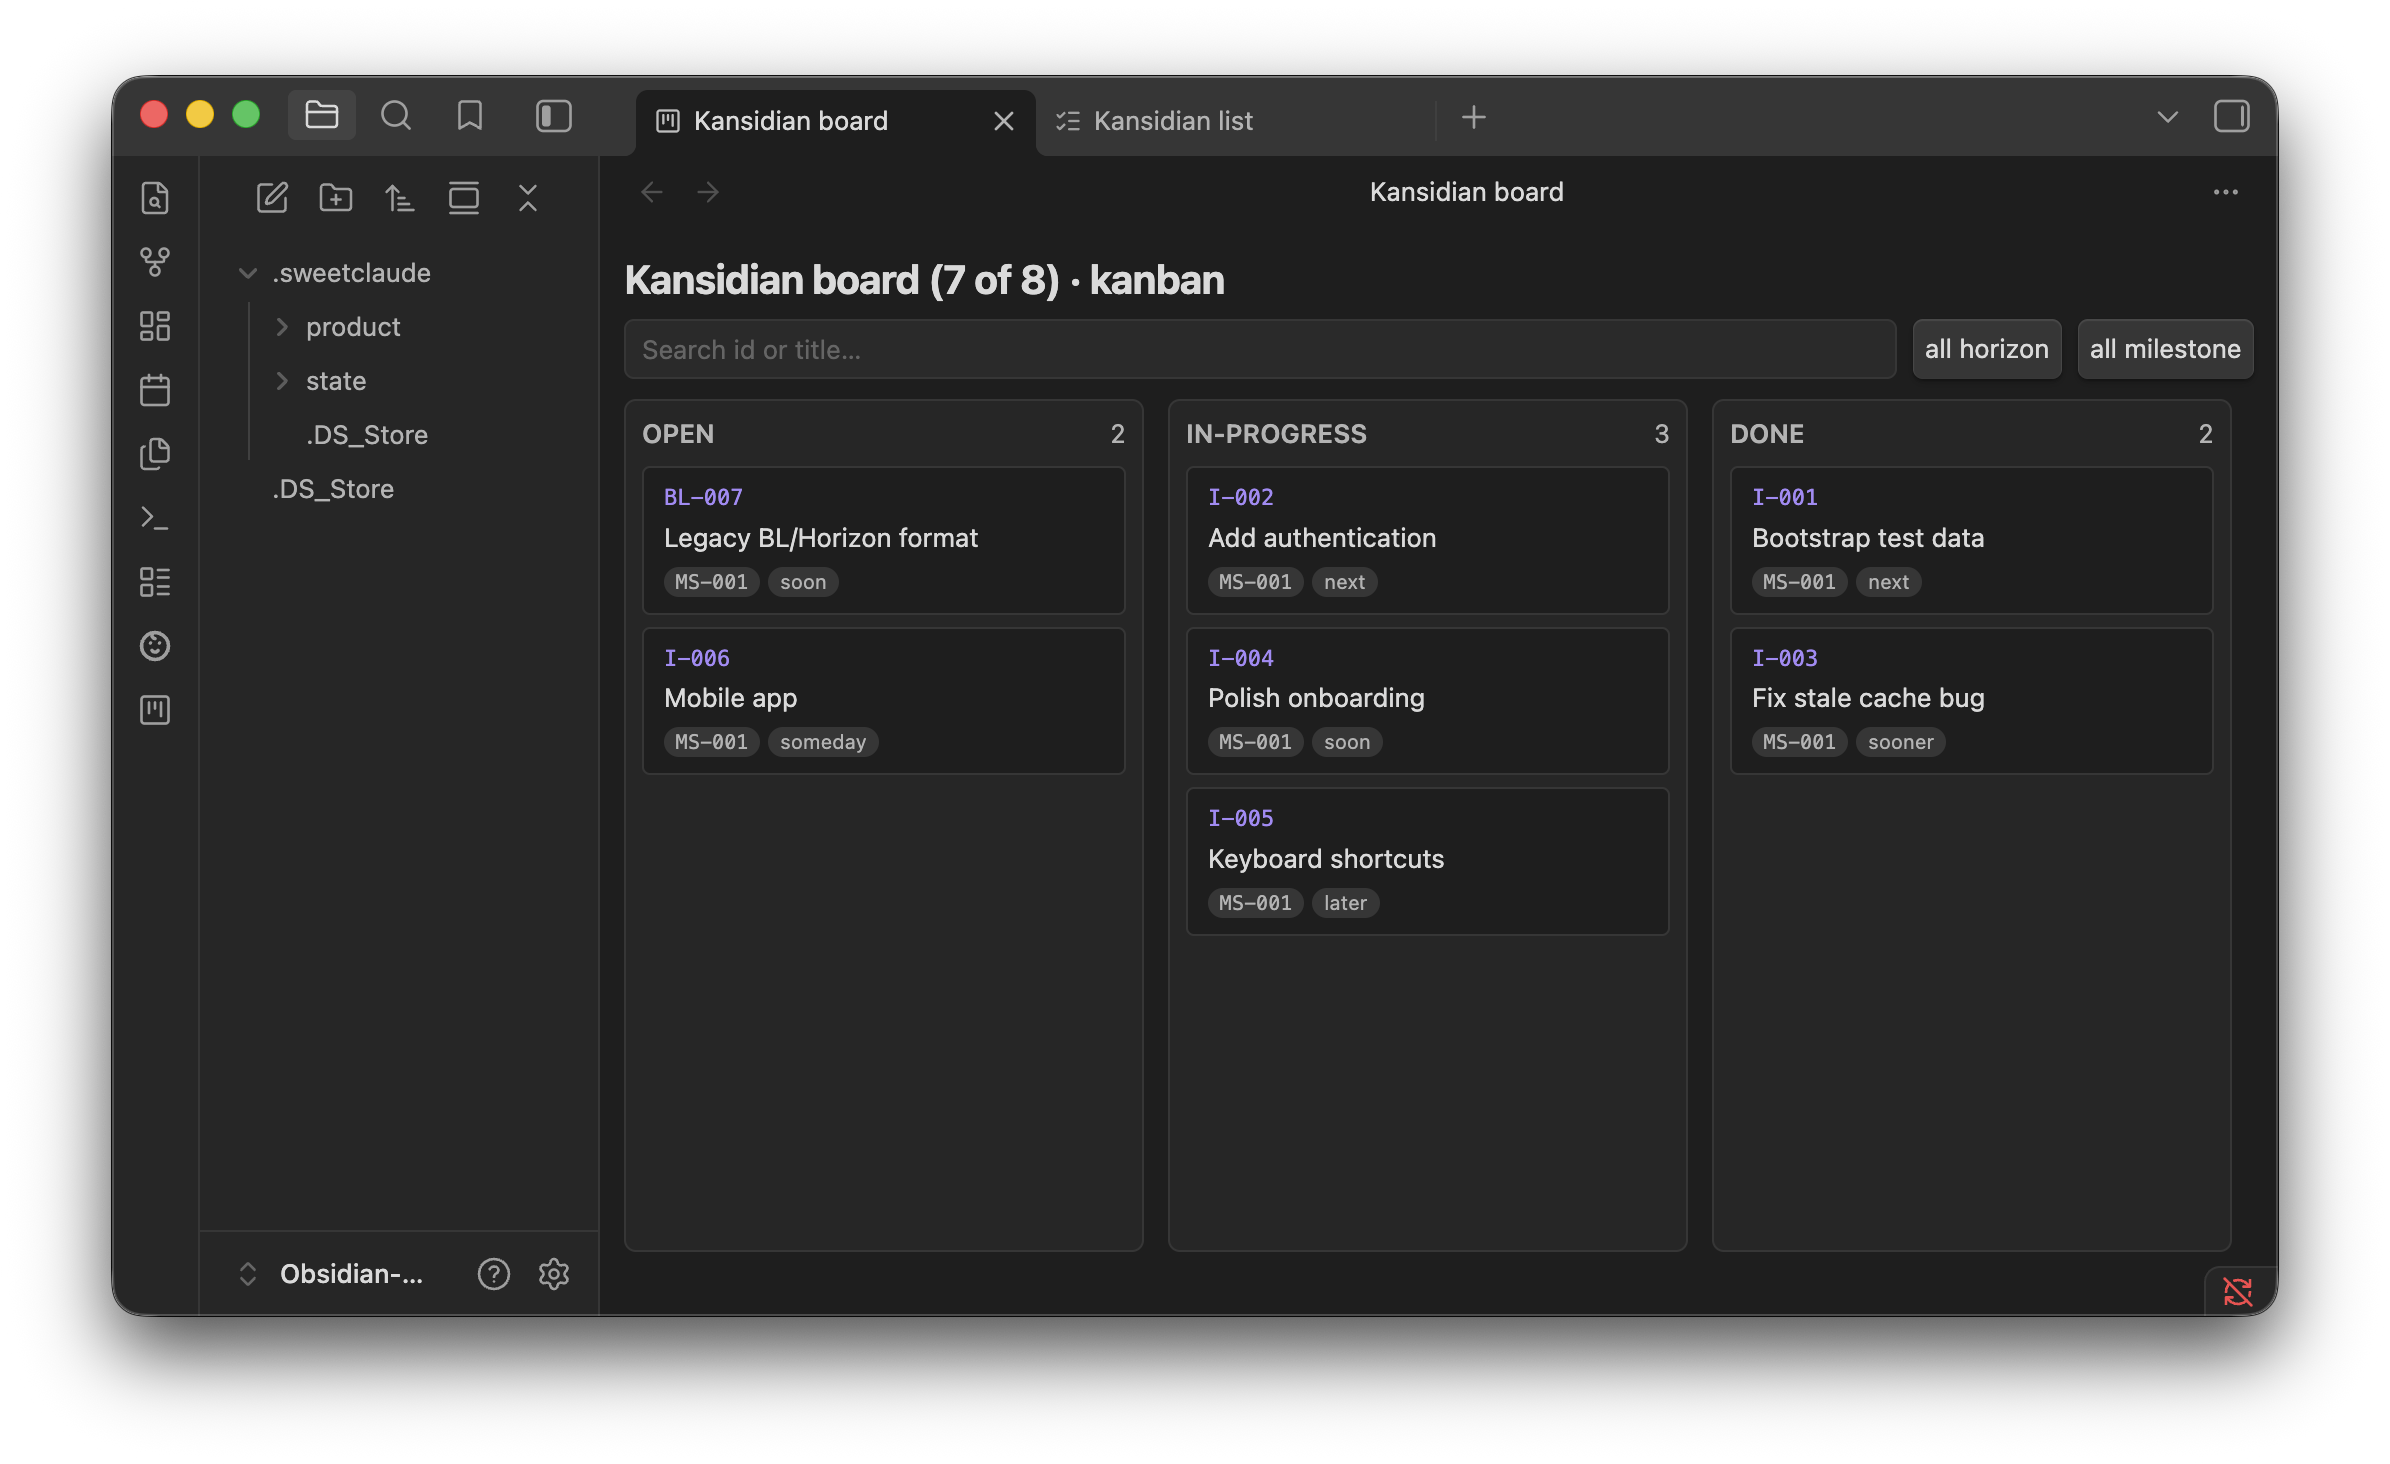
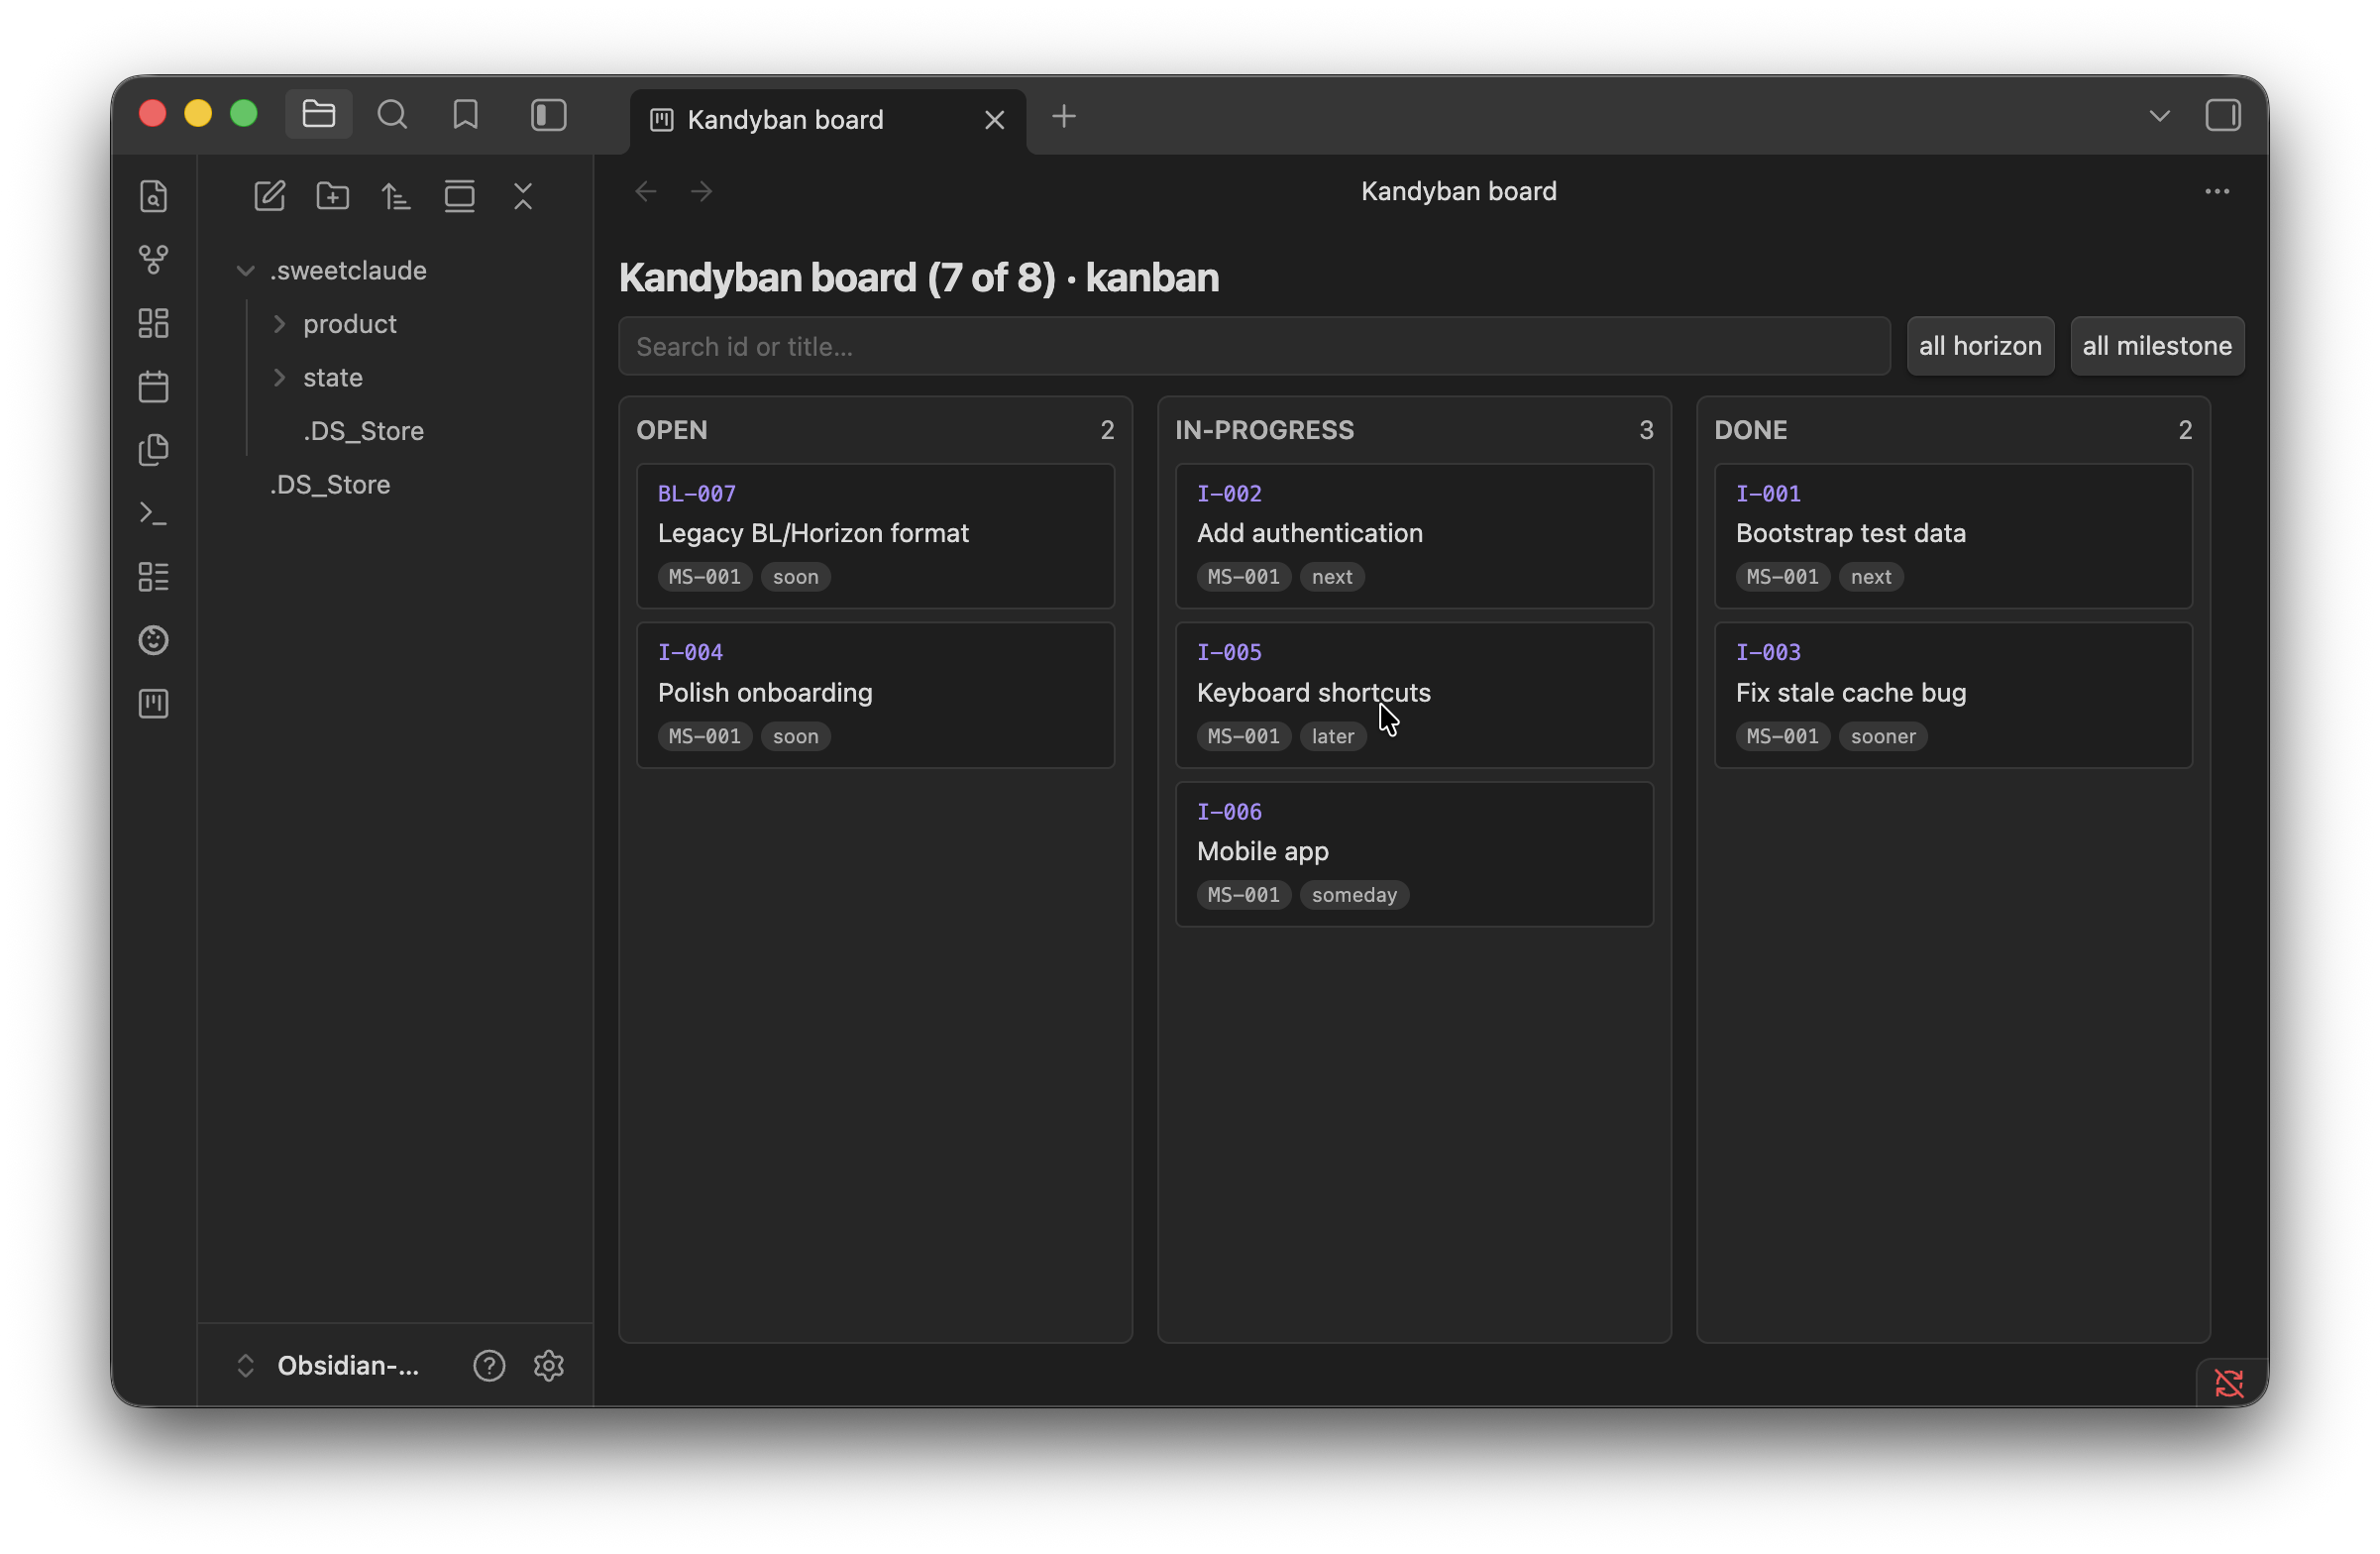
0.2.5: fix settings tab — rename Kandyban + mode-aware intro
Two issues caught in 0.2.4's settings tab:
1. Hardcoded "Kansidian" reference in the intro paragraph (pre-rename).
2. Intro claimed the vault must be .sweetclaude/, contradicting the I-019
   auto-detect that supports both legacy and project-root layouts.

Rewritten intro reads the plugin's vaultMode and explains what Kandyban
detected:
- legacy: "Vault layout detected: .sweetclaude/-as-vault (legacy). Paths
  below are vault-relative."
- project-root: explains that Kandyban reads .sweetclaude/ via
  vault.adapter and paths are relative to .sweetclaude/.
- no-project: tells the user where Kandyban looked.

diff --git a/src/settings.ts b/src/settings.ts
@@ -49,14 +49,31 @@ export class KansidianSettingTab extends PluginSettingTab {
 		const { containerEl } = this;
 		containerEl.empty();
 
+		const mode = this.plugin.vaultMode;
 		const intro = containerEl.createEl("p");
-		intro.appendText(
-			"Kansidian assumes you open your project's ",
-		);
-		intro.createEl("code", { text: ".sweetclaude/" });
-		intro.appendText(
-			" directory as the Obsidian vault (not the project root). Paths below are vault-relative.",
-		);
+		if (mode === "legacy") {
+			intro.appendText("Vault layout detected: ");
+			intro.createEl("strong", { text: ".sweetclaude/-as-vault" });
+			intro.appendText(" (legacy). Paths below are vault-relative.");
+		} else if (mode === "project-root") {
+			intro.appendText("Vault layout detected: ");
+			intro.createEl("strong", { text: "project-root" });
+			intro.appendText(". Kandyban reads ");
+			intro.createEl("code", { text: ".sweetclaude/" });
+			intro.appendText(
+				" via vault.adapter (Obsidian's indexer skips dotdirs). Paths below are relative to ",
+			);
+			intro.createEl("code", { text: ".sweetclaude/" });
+			intro.appendText(".");
+		} else {
+			intro.appendText(
+				"No project detected in this vault. Kandyban looks for ",
+			);
+			intro.createEl("code", { text: "state/phase.yaml" });
+			intro.appendText(" at the vault root, or ");
+			intro.createEl("code", { text: ".sweetclaude/state/phase.yaml" });
+			intro.appendText(" inside it.");
+		}
 
 		new Setting(containerEl)
 			.setName("Backlog path")